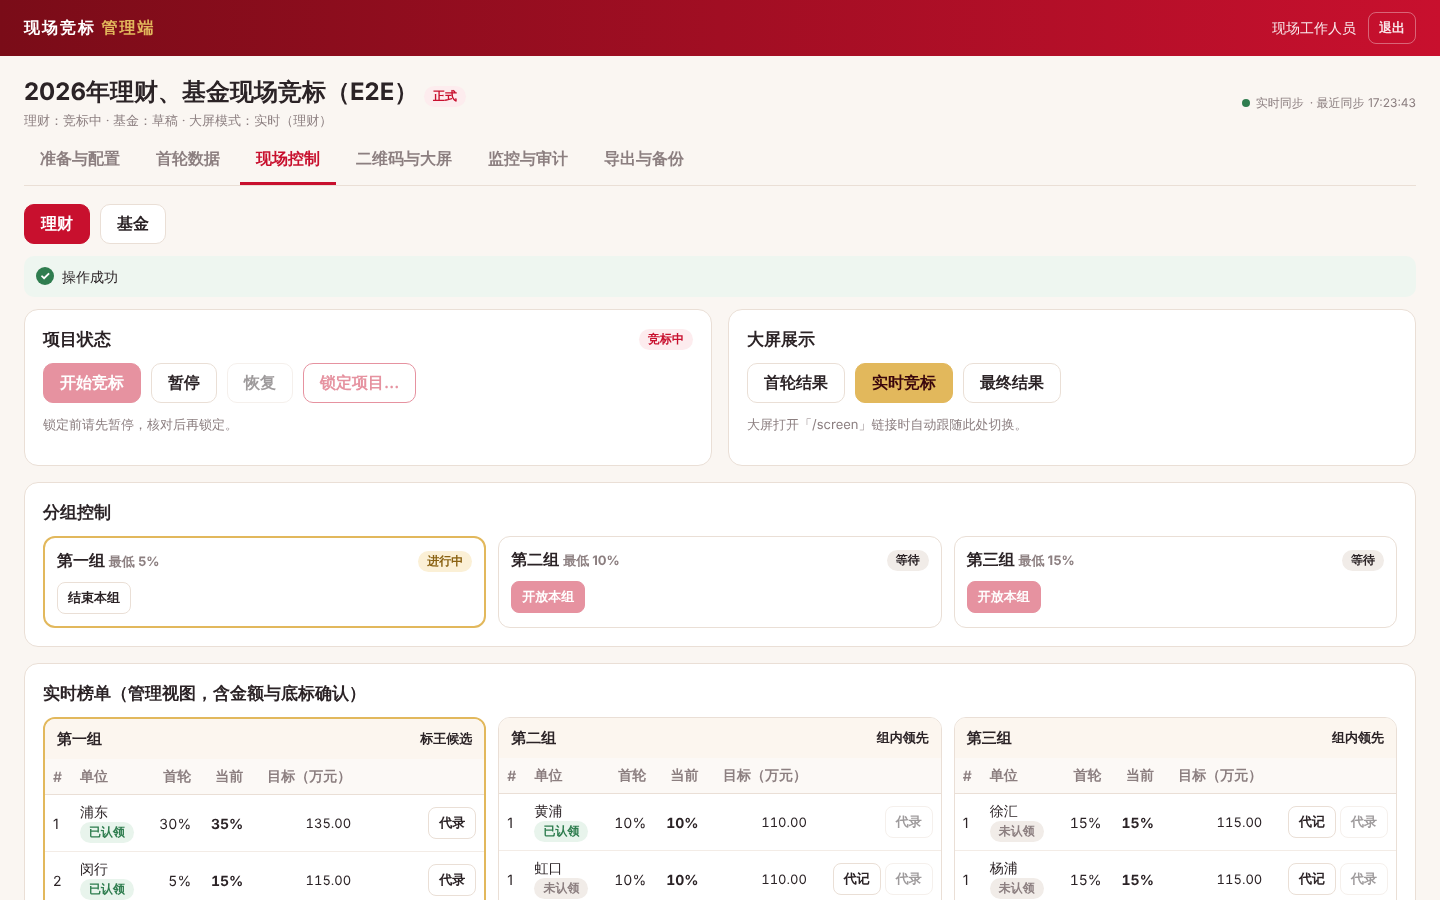
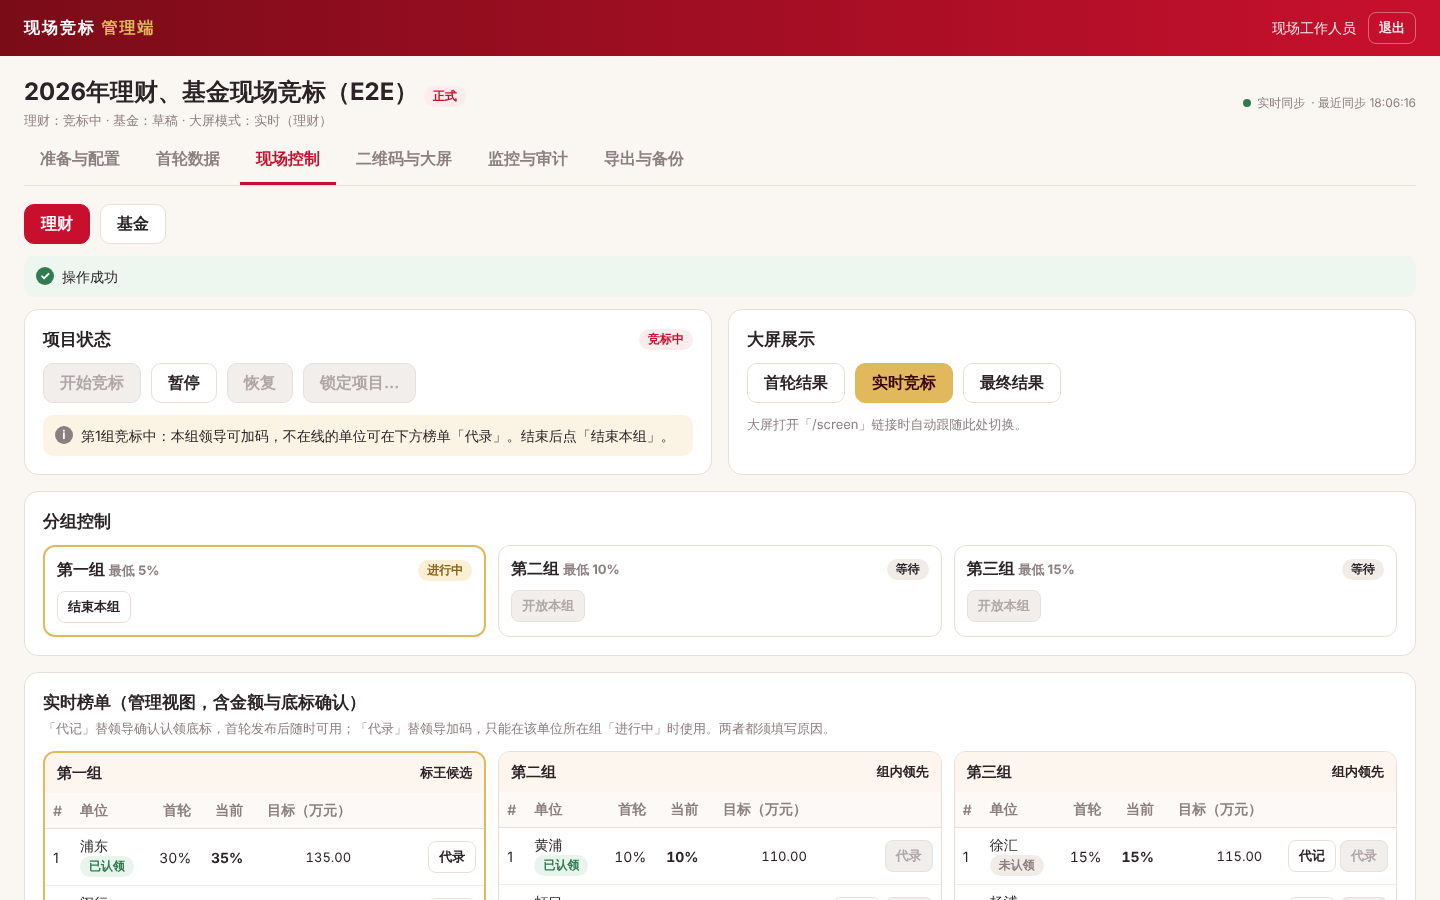
现场控制更直观：首轮发布后可直接「开放本组」（自动开始竞标）、提示下一步、说明代录何时可用
- 首轮已发布未开始时，「开放本组」直接完成开始竞标并开放该组，少一步操作
- 项目状态卡片按当前状态提示下一步该点什么
- 「代记」「代录」用途与可用时机写在榜单上方；按钮不可用时鼠标悬停显示原因
- 不可点击的按钮统一显示为灰色，避免被误认为可点

Claude-Session: https://claude.ai/code/session_01U6Pgri5g78g3NTCDgE6cee

diff --git a/apps/web/src/pages/admin/ControlTab.tsx b/apps/web/src/pages/admin/ControlTab.tsx
@@ -61,12 +61,26 @@ export function ControlTab({ eventId, state, reload }: TabProps) {
     });
 
   const openGroup = (groupNo: number, closed: boolean) => {
+    // 首轮已发布、尚未开始：一步完成「开始竞标 + 开放本组」
+    if (p.status === 'ROUND1_PUBLISHED') return safe(() => control('START', { groupNo }))();
     if (!closed) return safe(() => control('OPEN_GROUP', { groupNo }))();
     setReasonFor({ title: `重新开放第${groupNo}组（原增幅不会下调）`, run: (reason) => control('OPEN_GROUP', { groupNo, reason }) });
   };
 
   const openGroupNo = p.groups.find((g) => g.status === 'OPEN')?.groupNo;
   const isCurrent = state.event.currentProject === project;
+  const canOpenGroups = ['ROUND1_PUBLISHED', 'LIVE', 'PAUSED'].includes(p.status) && !openGroupNo;
+  const nextWaiting = p.groups.find((g) => g.status === 'WAITING');
+
+  /** 当前该做什么：给工作人员的明确提示 */
+  const nextStep = (() => {
+    if (p.status === 'DRAFT') return '下一步：到「首轮数据」发布首轮。';
+    if (p.status === 'ROUND1_PUBLISHED') return '下一步：点下方第一组的「开放本组」，系统会自动开始竞标并开放该组（也可以先点「开始竞标」）。';
+    if (p.status === 'LIVE' && openGroupNo) return `第${openGroupNo}组竞标中：本组领导可加码，不在线的单位可在下方榜单「代录」。结束后点「结束本组」。`;
+    if (p.status === 'LIVE') return nextWaiting ? `下一步：开放第${nextWaiting.groupNo}组。` : '三组均已结束。';
+    if (p.status === 'PAUSED') return nextWaiting ? `已暂停：点「恢复」继续，或直接开放第${nextWaiting.groupNo}组。` : '三组均已结束并自动暂停：核对无误后点「锁定项目」。';
+    return `已于 ${fmtTime(p.lockedAt, true)} 锁定，结果不可修改。`;
+  })();
 
   return (
     <>
@@ -104,11 +118,9 @@ export function ControlTab({ eventId, state, reload }: TabProps) {
               锁定项目…
             </button>
           </div>
-          <p className="small muted">
-            {p.status === 'DRAFT' && '请先在「首轮数据」发布首轮。'}
-            {p.status === 'LIVE' && '锁定前请先暂停，核对后再锁定。'}
-            {p.status === 'LOCKED' && `已于 ${fmtTime(p.lockedAt, true)} 锁定，结果不可修改。`}
-          </p>
+          <div className="notice info" style={{ marginTop: 12 }}>
+            {nextStep}
+          </div>
         </div>
         <div className="a-card">
           <h3>大屏展示</h3>
@@ -154,7 +166,16 @@ export function ControlTab({ eventId, state, reload }: TabProps) {
                 ) : (
                   <button
                     className="btn btn-sm btn-primary"
-                    disabled={busy || !!openGroupNo || !(p.status === 'LIVE' || p.status === 'PAUSED')}
+                    disabled={busy || !canOpenGroups}
+                    title={
+                      openGroupNo
+                        ? `第${openGroupNo}组仍在进行，请先结束该组`
+                        : p.status === 'DRAFT'
+                          ? '请先发布首轮'
+                          : p.status === 'LOCKED'
+                            ? '项目已锁定'
+                            : ''
+                    }
                     onClick={() => openGroup(g.groupNo, g.status === 'CLOSED')}
                   >
                     {g.status === 'CLOSED' ? '重新开放…' : '开放本组'}
@@ -168,6 +189,9 @@ export function ControlTab({ eventId, state, reload }: TabProps) {
 
       <div className="a-card">
         <h3>实时榜单（管理视图，含金额与底标确认）</h3>
+        <p className="small muted" style={{ marginTop: -6 }}>
+          「代记」替领导确认认领底标，首轮发布后随时可用；「代录」替领导加码，只能在该单位所在组「进行中」时使用。两者都须填写原因。
+        </p>
         {boards.length === 0 ? (
           <p className="muted">首轮发布后显示</p>
         ) : (
@@ -221,7 +245,20 @@ export function ControlTab({ eventId, state, reload }: TabProps) {
                                     代记
                                   </button>
                                 )}
-                                <button className="btn btn-sm" onClick={() => setProxyBid(r)} disabled={p.status !== 'LIVE' || g.status !== 'OPEN'}>
+                                <button
+                                  className="btn btn-sm"
+                                  onClick={() => setProxyBid(r)}
+                                  disabled={p.status !== 'LIVE' || g.status !== 'OPEN'}
+                                  title={
+                                    p.status === 'PAUSED'
+                                      ? '竞标已暂停，恢复后可代录'
+                                      : g.status !== 'OPEN'
+                                        ? `${g.name}开放后可代录`
+                                        : !a?.acknowledged
+                                          ? '请先「代记」底标确认'
+                                          : ''
+                                  }
+                                >
                                   代录
                                 </button>
                               </div>

diff --git a/apps/web/src/styles.css b/apps/web/src/styles.css
@@ -81,8 +81,14 @@ textarea {
 .btn:active:not(:disabled) {
   transform: scale(0.98);
 }
-.btn:disabled {
-  opacity: 0.45;
+.btn:disabled,
+.btn-primary:disabled,
+.btn-gold:disabled,
+.btn-danger-outline:disabled {
+  background: #f1eeec;
+  border-color: #e6e1de;
+  color: #b0a6a7;
+  box-shadow: none;
   cursor: not-allowed;
 }
 .btn-primary {
